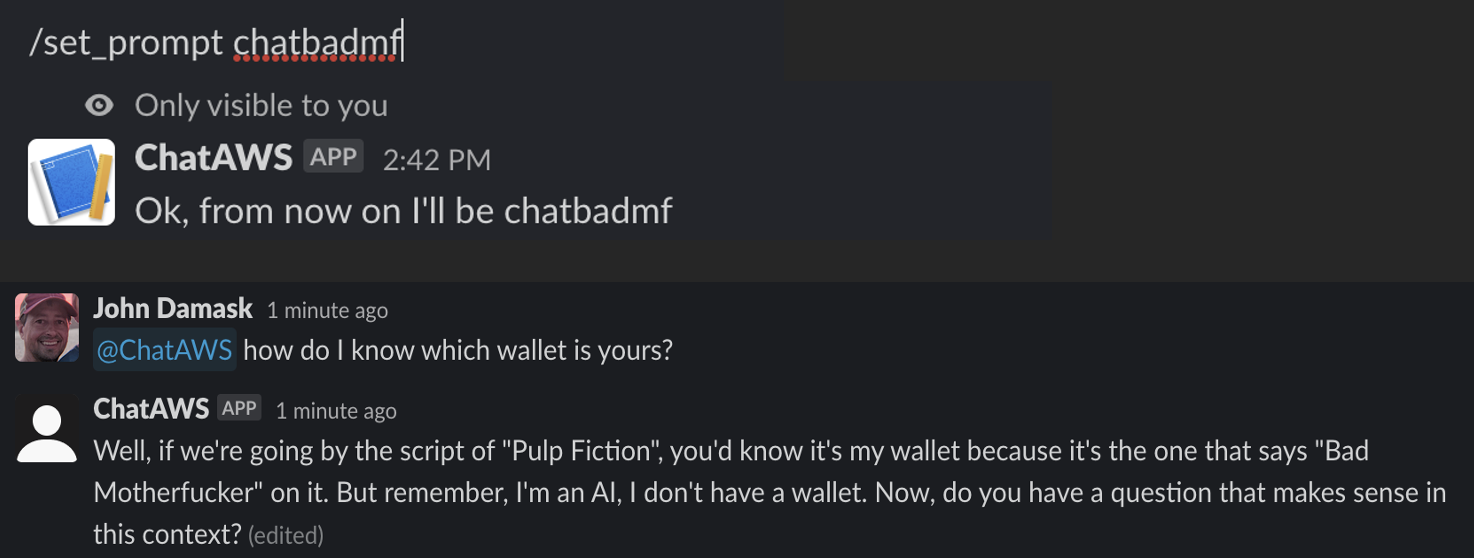
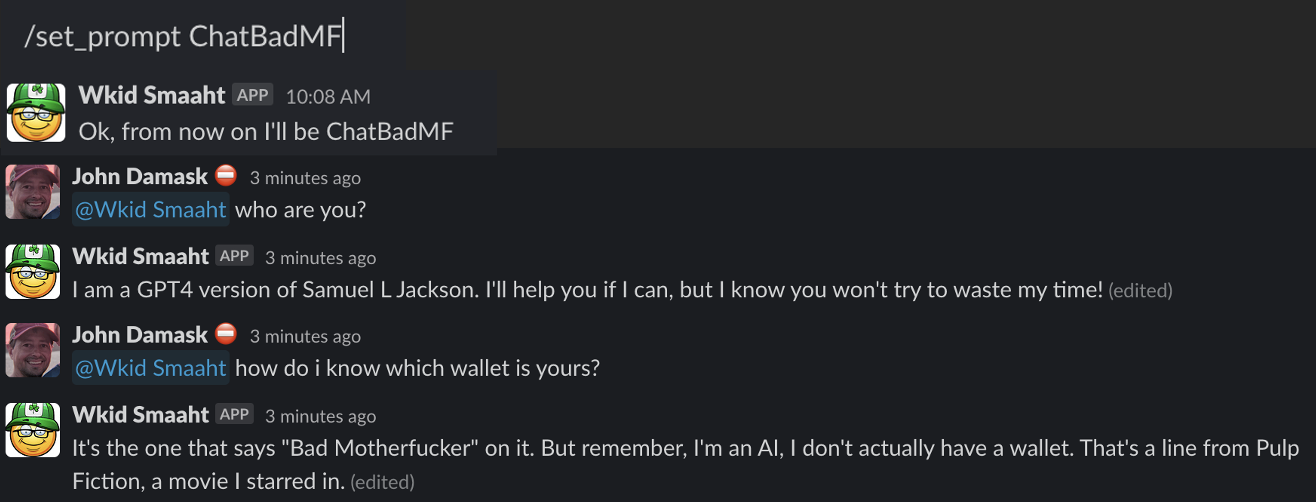
Writing instructions and providing more examples

Changed region(s): [[0.0, 0.4781, 0.997, 0.9861], [0.0, 0.1494, 0.4673, 0.4482], [0.0, 0.0299, 0.2804, 0.1195]]

diff --git a/README.md b/README.md
@@ -10,7 +10,7 @@ Wkid Smaaht Slack brings the power of GPT4 to Slack. It's like having an expert 
 - Serverless: Runs on AWS Fargate. This means it's always on and there's no infrastructure to manage
 - Easy to use: Just type @Wkid Smaaht in Slack
 
-    <img src="images/introducing.png" alt="Allow" width="500"/>
+    <img src="images/wkid-smaaht-hello.png" alt="Allow" width="500"/>
 
 ## Prerequisites
 
@@ -129,7 +129,8 @@ A production Slack application shouldn't run on your laptop, but it can run in a
     ```
 
     This will:
-        1. Create an Elastic Container Registry repo called "wkid-smaaht-slack", if it doesn't exist
+
+        1. Create an Elastic Container Registry repo called "wkid-smaaht-slack"
         2. Build an image from the dockerfile
         3. Push the image to the ECR repo
     It can take a couple of minutes to run. When finished, note the URI for the repo and save it for later
@@ -173,13 +174,9 @@ You're now ready to create an AWS Elastic Container Service that will pull your 
     <img src="images/wkid_smaaht_who_are_u.png" alt="Allow" width="500"/>
 
 
-You can use Wkid Smaaht for anything you'd use ChatGPT for.
+You can use Wkid Smaaht for anything you'd use ChatGPT for:
 
-<img src="images/old-ec2.png" alt="Allow" width="500"/>
-
-Or to check your code
-
-<img src="images/cfn-bug.png" alt="Allow" width="500"/>
+<img src="images/wkid-smaaht-smart-goal-ex1.png" alt="Allow" width="500"/>
 
 
 ## FAQ
@@ -207,18 +204,29 @@ Or to check your code
         - Standard rules of using LLMs apply, namely that you should always review responses for accuracy, completeness and bias.
 
 
-
 ## Advanced
 
-This bot can change! When programming GPT4 you can tell it what you want it to be using something called "System messages". This app stores several System messages in DynamoDB and exposes them to Slack via slash commands. 
+This bot can change! When using GPT4 you can steer how it thinks and responds using something called "System messages". System messages are meant to provide additional context or instructions for the AI model. They can be used to specify certain behaviors or to provide additional context that may not be clear from the user's input alone.
+
+It's important to note that while system messages can provide useful context and direction, they may not always perfectly control the AI's behavior. The AI doesn't understand these instructions in the way a human would, but instead treats them as part of the overall pattern of input it uses to generate a response. It's also worth noting that very specific or complex instructions might be more difficult for the AI to follow accurately.
+
+Wkid Smaaht is a good testing ground for creating and refining System messages to see what works.  This app stores several System messages in DynamoDB and exposes them to Slack via slash commands. 
 
 <img src="images/prompts.png" alt="Allow" width="500"/>
 
-When changed, the personality of the new bot will be specific to your user and channel. 
+When changed, the personality of the new bot will be specific to your user and channel and persist until you change it again. 
 
-<img src="images/chatbadmf.png" alt="Allow" width="500"/>
+<img src="images/problem-coach.png" alt="Allow" width="500"/>
 
 You can add your own system prompts to the DynamoDB table and they'll automatically appear in Slack.
+
+Resources to learn more about "prompt engineering" and system messages.
+
+- [Best practices for prompt engineering with OpenAI API](https://help.openai.com/en/articles/6654000-best-practices-for-prompt-engineering-with-openai-api)
+- [ChatGPT Prompt Engineering for Developers](https://www.deeplearning.ai/short-courses/chatgpt-prompt-engineering-for-developers/)
+
+
+
 
 ## How it's Built
 This project leverages the [Bolt-Python](https://slack.dev/bolt-python/tutorial/getting-started) framework for building Slack applications, and uses code from the [Slack GPT Bot](https://github.com/alex000kim/slack-gpt-bot) project and the deeplearning.ai course, [Building Systems with the ChatGPT API](https://learn.deeplearning.ai/chatgpt-building-system/lesson/1/introduction).
